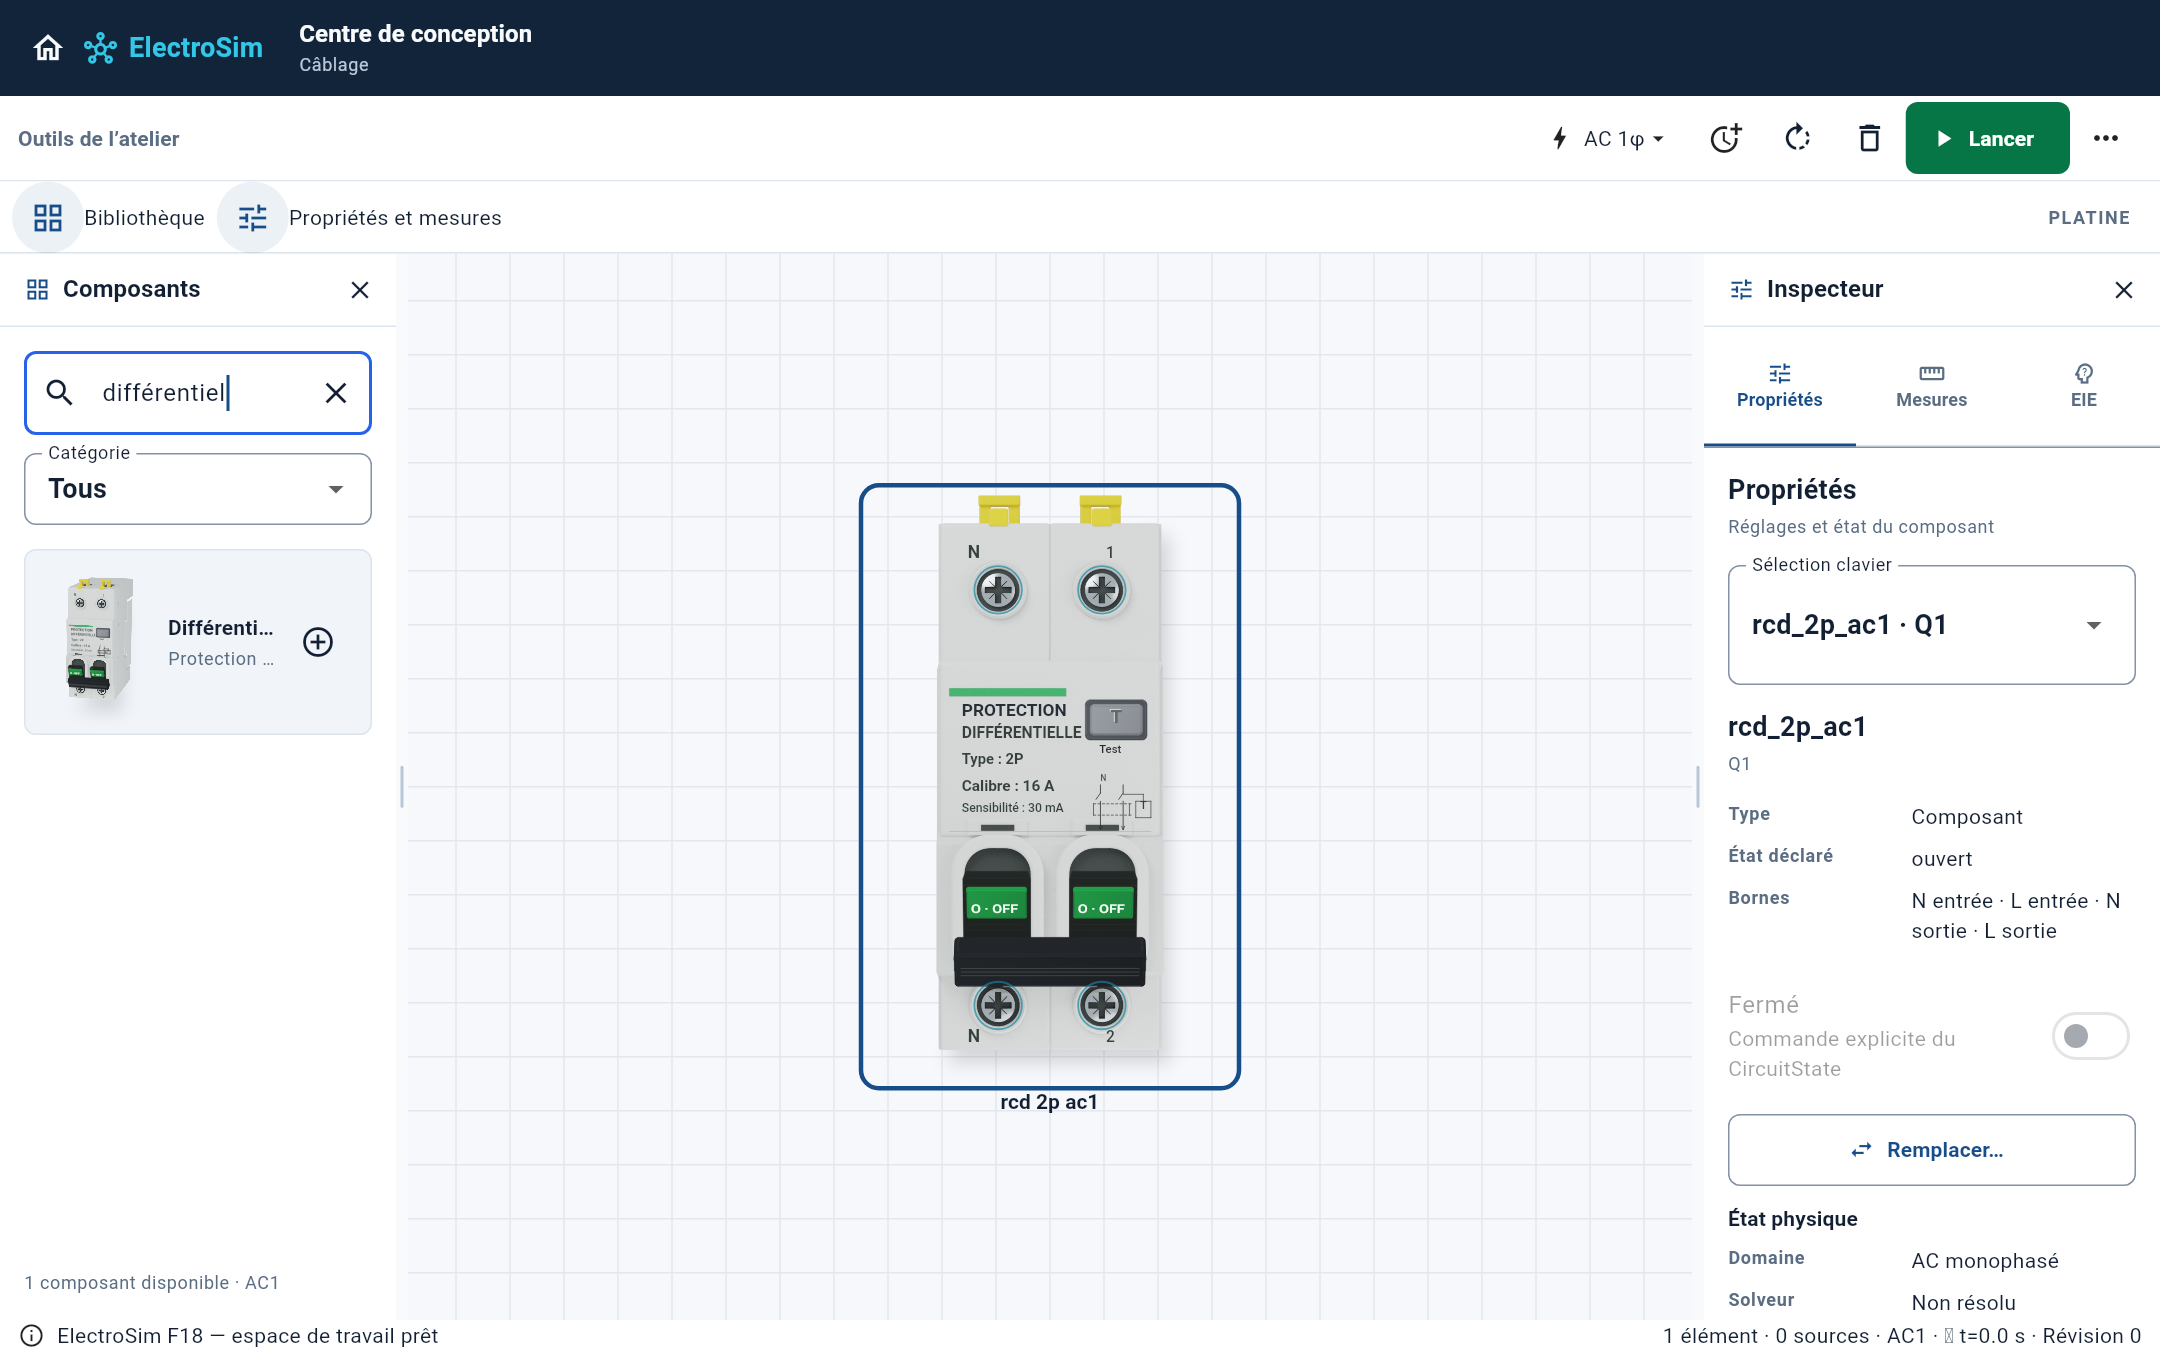
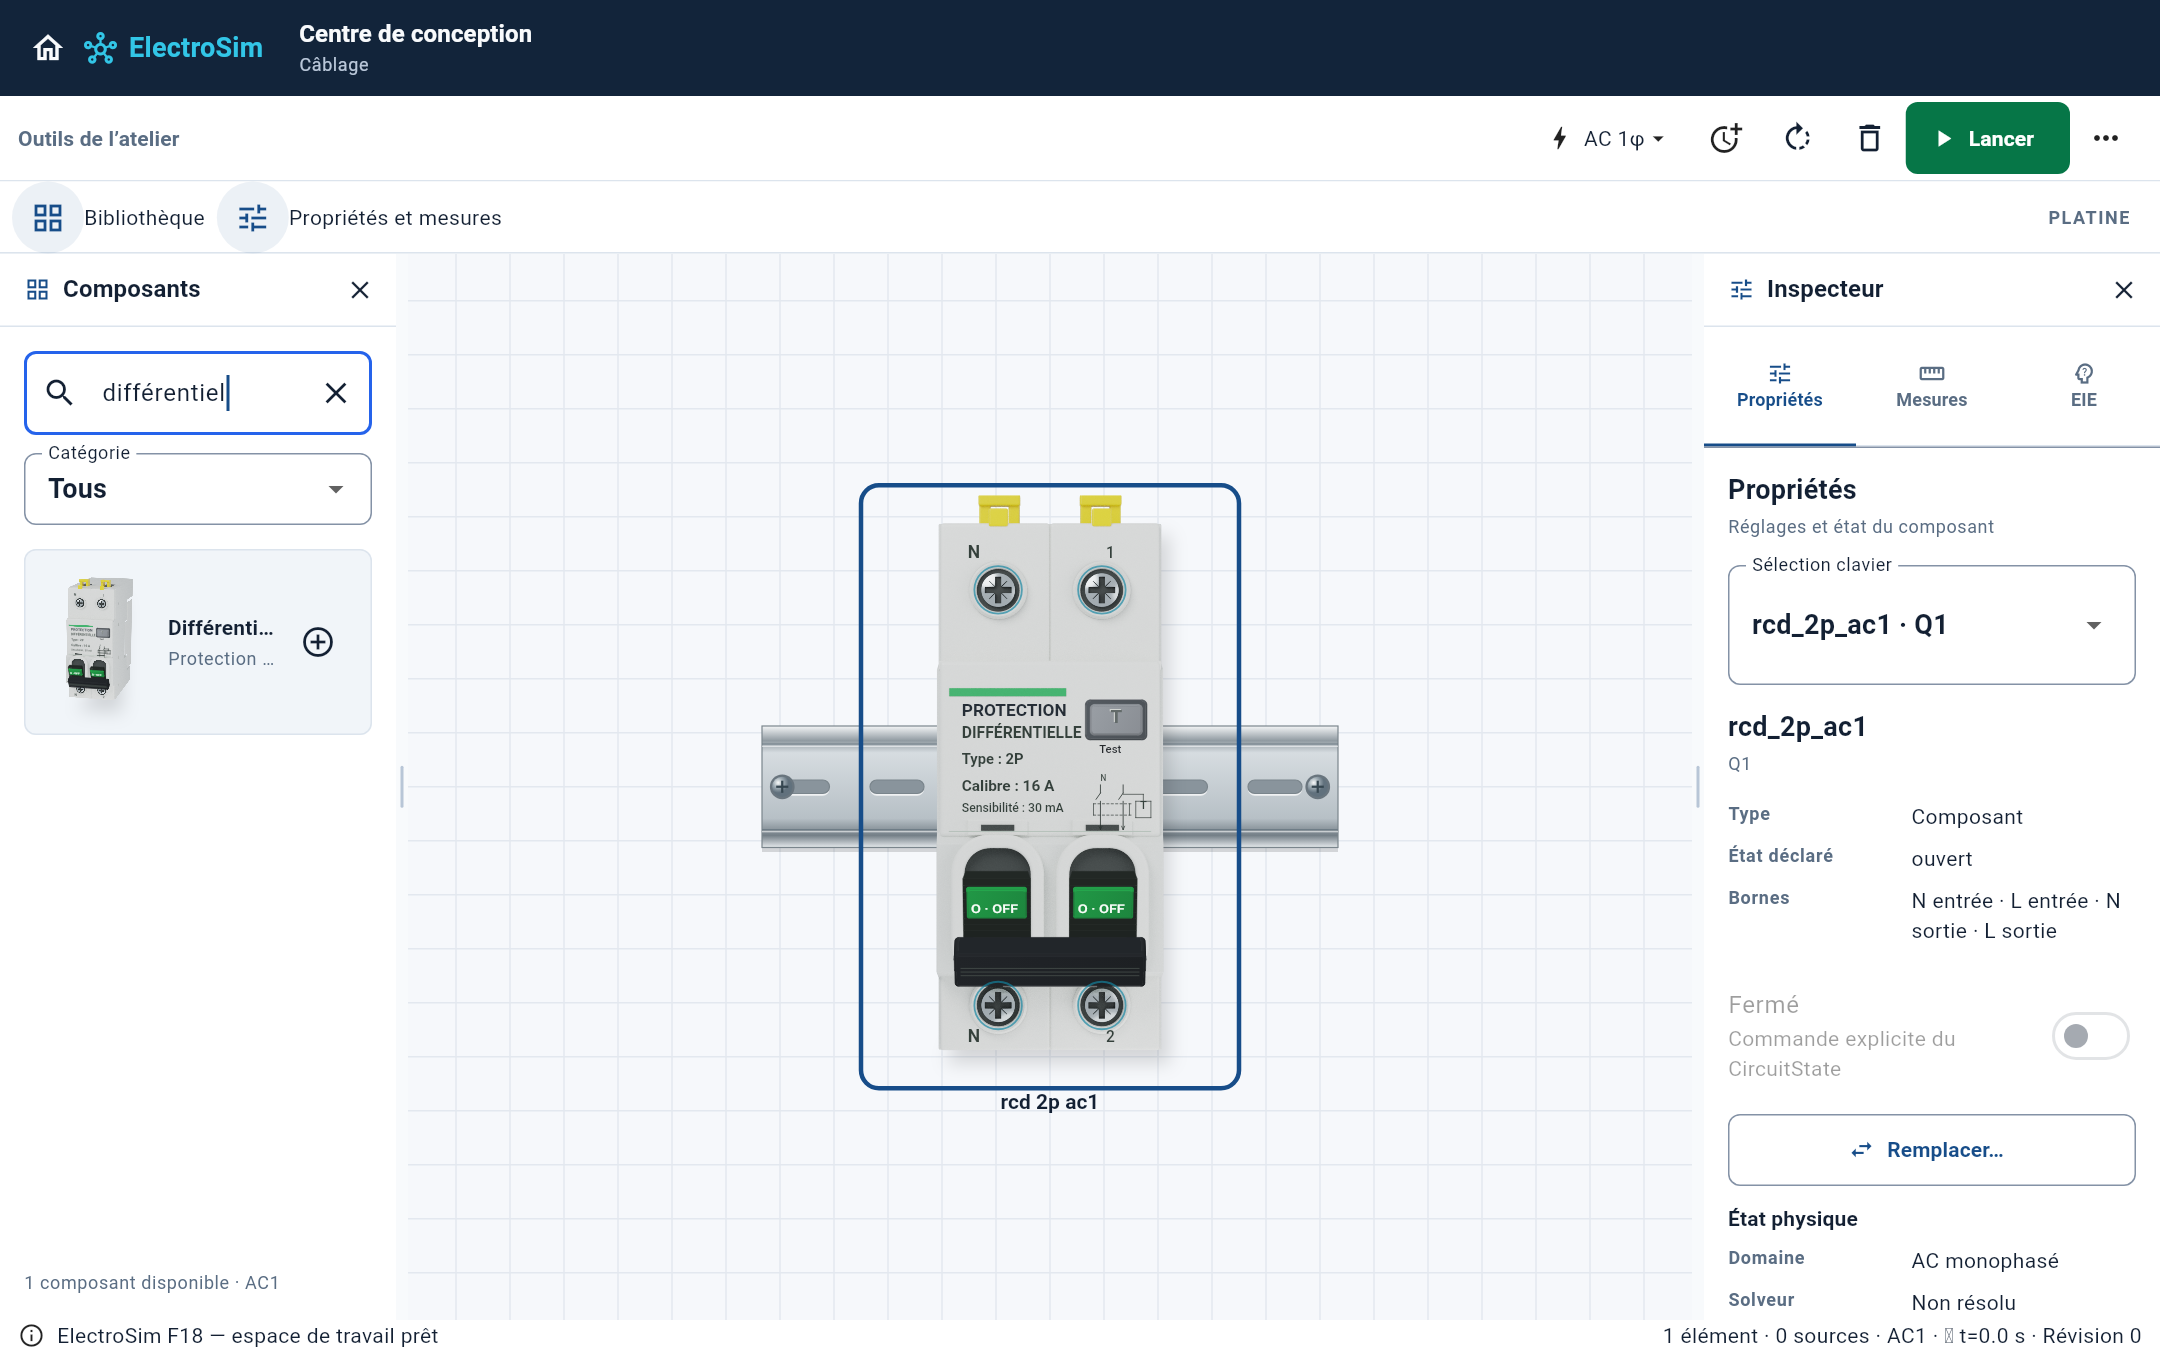
Show existing DIN rails behind the G5 two-pole RCD

Changed region(s): [[0.5273, 0.5289, 0.6204, 0.6533], [0.3412, 0.5289, 0.4343, 0.6533]]

diff --git a/packages/electrosim_canvas/test/din_rail_layout_test.dart b/packages/electrosim_canvas/test/din_rail_layout_test.dart
@@ -4,6 +4,48 @@ import 'package:electrosim_domain/electrosim_domain.dart';
 import 'package:flutter_test/flutter_test.dart';
 
 void main() {
+  test('the 2P RCD gets a visible DIN support without moving its geometry', () {
+    final viewport = ViewportController();
+    addTearDown(viewport.dispose);
+    final circuit = CircuitState(
+      circuitId: CircuitId('rcd-support'),
+      revision: 0,
+      mode: ElectricalMode.ac1,
+      components: [
+        ComponentInstance(
+          id: ComponentId('Q1'),
+          modelType: 'rcd_2p_ac1',
+          terminals: [],
+        ),
+      ],
+    );
+    final layout = CircuitVisualLayout(
+      elementPositions: const {'Q1': Offset(140, 165)},
+      elementSizes: const {'Q1': Size(160, 260)},
+    );
+    final geometry = CircuitGeometryIndex.build(circuit, layout);
+    final painter = CircuitScenePainter(
+      circuit: circuit,
+      layout: layout,
+      viewport: viewport,
+      paintElementChrome: false,
+    );
+    expect(painter.dinSupportsAtBuild, hasLength(1));
+    final rail = painter.dinSupportsAtBuild.single;
+    final body = geometry.elementRects['Q1']!;
+    expect(rail.center, body.center);
+    expect(rail.left, lessThan(body.left));
+    expect(rail.right, greaterThan(body.right));
+    expect(painter.geometryAtBuild.elementRects, geometry.elementRects);
+    final rotated = CircuitScenePainter(
+      circuit: circuit,
+      layout: layout.rotateElement('Q1'),
+      viewport: viewport,
+      paintElementChrome: false,
+    );
+    expect(rotated.dinSupportsAtBuild, isEmpty);
+  });
+
   test(
     'an aligned thermal relay and panel adapters share the lower support',
     () {

diff --git a/apps/electrosim/tool/capture_g5_reference_test.dart b/apps/electrosim/tool/capture_g5_reference_test.dart
@@ -1,6 +1,7 @@
 import 'dart:io';
 import 'dart:ui' as ui;
 import 'package:electrosim/main.dart';
+import 'package:electrosim_canvas/electrosim_canvas.dart';
 import 'package:electrosim/reference_components/disjoncteur_3d.dart';
 import 'package:electrosim/f18_premium_rcd2p_showcase.dart';
 import 'package:electrosim_domain/electrosim_domain.dart';
@@ -109,6 +110,12 @@ void main() {
     final widgets = t.widgetList<Disjoncteur3D>(find.byType(Disjoncteur3D));
     expect(widgets.any((w) => w.vue == VueDisjoncteur.palette), isTrue);
     expect(widgets.any((w) => w.vue == VueDisjoncteur.platine), isTrue);
+    final scenes = t
+        .widgetList<CustomPaint>(find.byType(CustomPaint))
+        .map((paint) => paint.painter)
+        .whereType<CircuitScenePainter>();
+    expect(scenes.single.paintElementChrome, isFalse);
+    expect(scenes.single.dinSupportsAtBuild, hasLength(1));
     expect(t.takeException(), isNull);
     await save(t, key, 'electrosim-palette-platine');
     await t.pumpWidget(const SizedBox());

diff --git a/packages/electrosim_canvas/lib/src/circuit_scene_painter.dart b/packages/electrosim_canvas/lib/src/circuit_scene_painter.dart
@@ -112,6 +112,7 @@ final class CircuitScenePainter extends CustomPainter {
     const mountedTypes = <String>{
       'breaker_dc',
       'breaker_ac1',
+      'rcd_2p_ac1',
       'breaker',
       'breaker_3p',
       'breaker_4p',

diff --git a/docs/g5-reference-rendering/README.md b/docs/g5-reference-rendering/README.md
@@ -54,7 +54,7 @@ Le résultat est un rendu de produit détaillé, pas une identité photographiqu
 
 ## Vérifications exécutées
 
-- Suite application : 364 tests réussis.
+- Suite application avant le correctif DIN ci-dessous : 364 tests réussis.
 - Test ajouté après cette suite : 1 test de fallback réussi (365 tests validés au total).
 - Dix tests ciblés : captures, vis sous les quatre ancres dans trois tailles/deux orientations, fermeture du flanc, intégration Canvas et Test alimenté/non alimenté.
 - Analyse statique des sources modifiées et nouveaux tests : aucune anomalie.
@@ -78,3 +78,11 @@ blender -b --factory-startup -t 4 --python tools/render_g5_physical.py
 ```
 
 La version Blender utilisée ici ne fournit pas OpenImageDenoise ; le générateur utilise donc 64 échantillons sans débruitage externe. Les PNG sont des sorties directes du calcul 3D.
+
+## Correctif d'intégration DIN
+
+Le dessin des rails DIN était déjà présent dans la base G5 `150f0bd`. Le type `rcd_2p_ac1` manquait toutefois dans la liste des appareils montés sur rail. La première capture, qui contenait uniquement ce composant, ne produisait donc aucun rail.
+
+Le correctif ajoute ce type au mécanisme existant. Aucun déplacement du composant, des vis, des bornes ou des fils n'est introduit. Un appareil tourné conserve la règle existante d'absence de support horizontal. Le test de régression échouait avec zéro support avant la correction, puis contrôle un support visible et centré après celle-ci.
+
+Vérifications après ce correctif : 89 tests Canvas, 8 tests de capture/intégration/Test T et 11 tests de références visuelles de l'application réussis. Analyse statique des fichiers concernés sans anomalie. La capture actuelle inclut le rail de production ; le test de capture exige aussi un support réellement présent dans le peintre de la platine.
